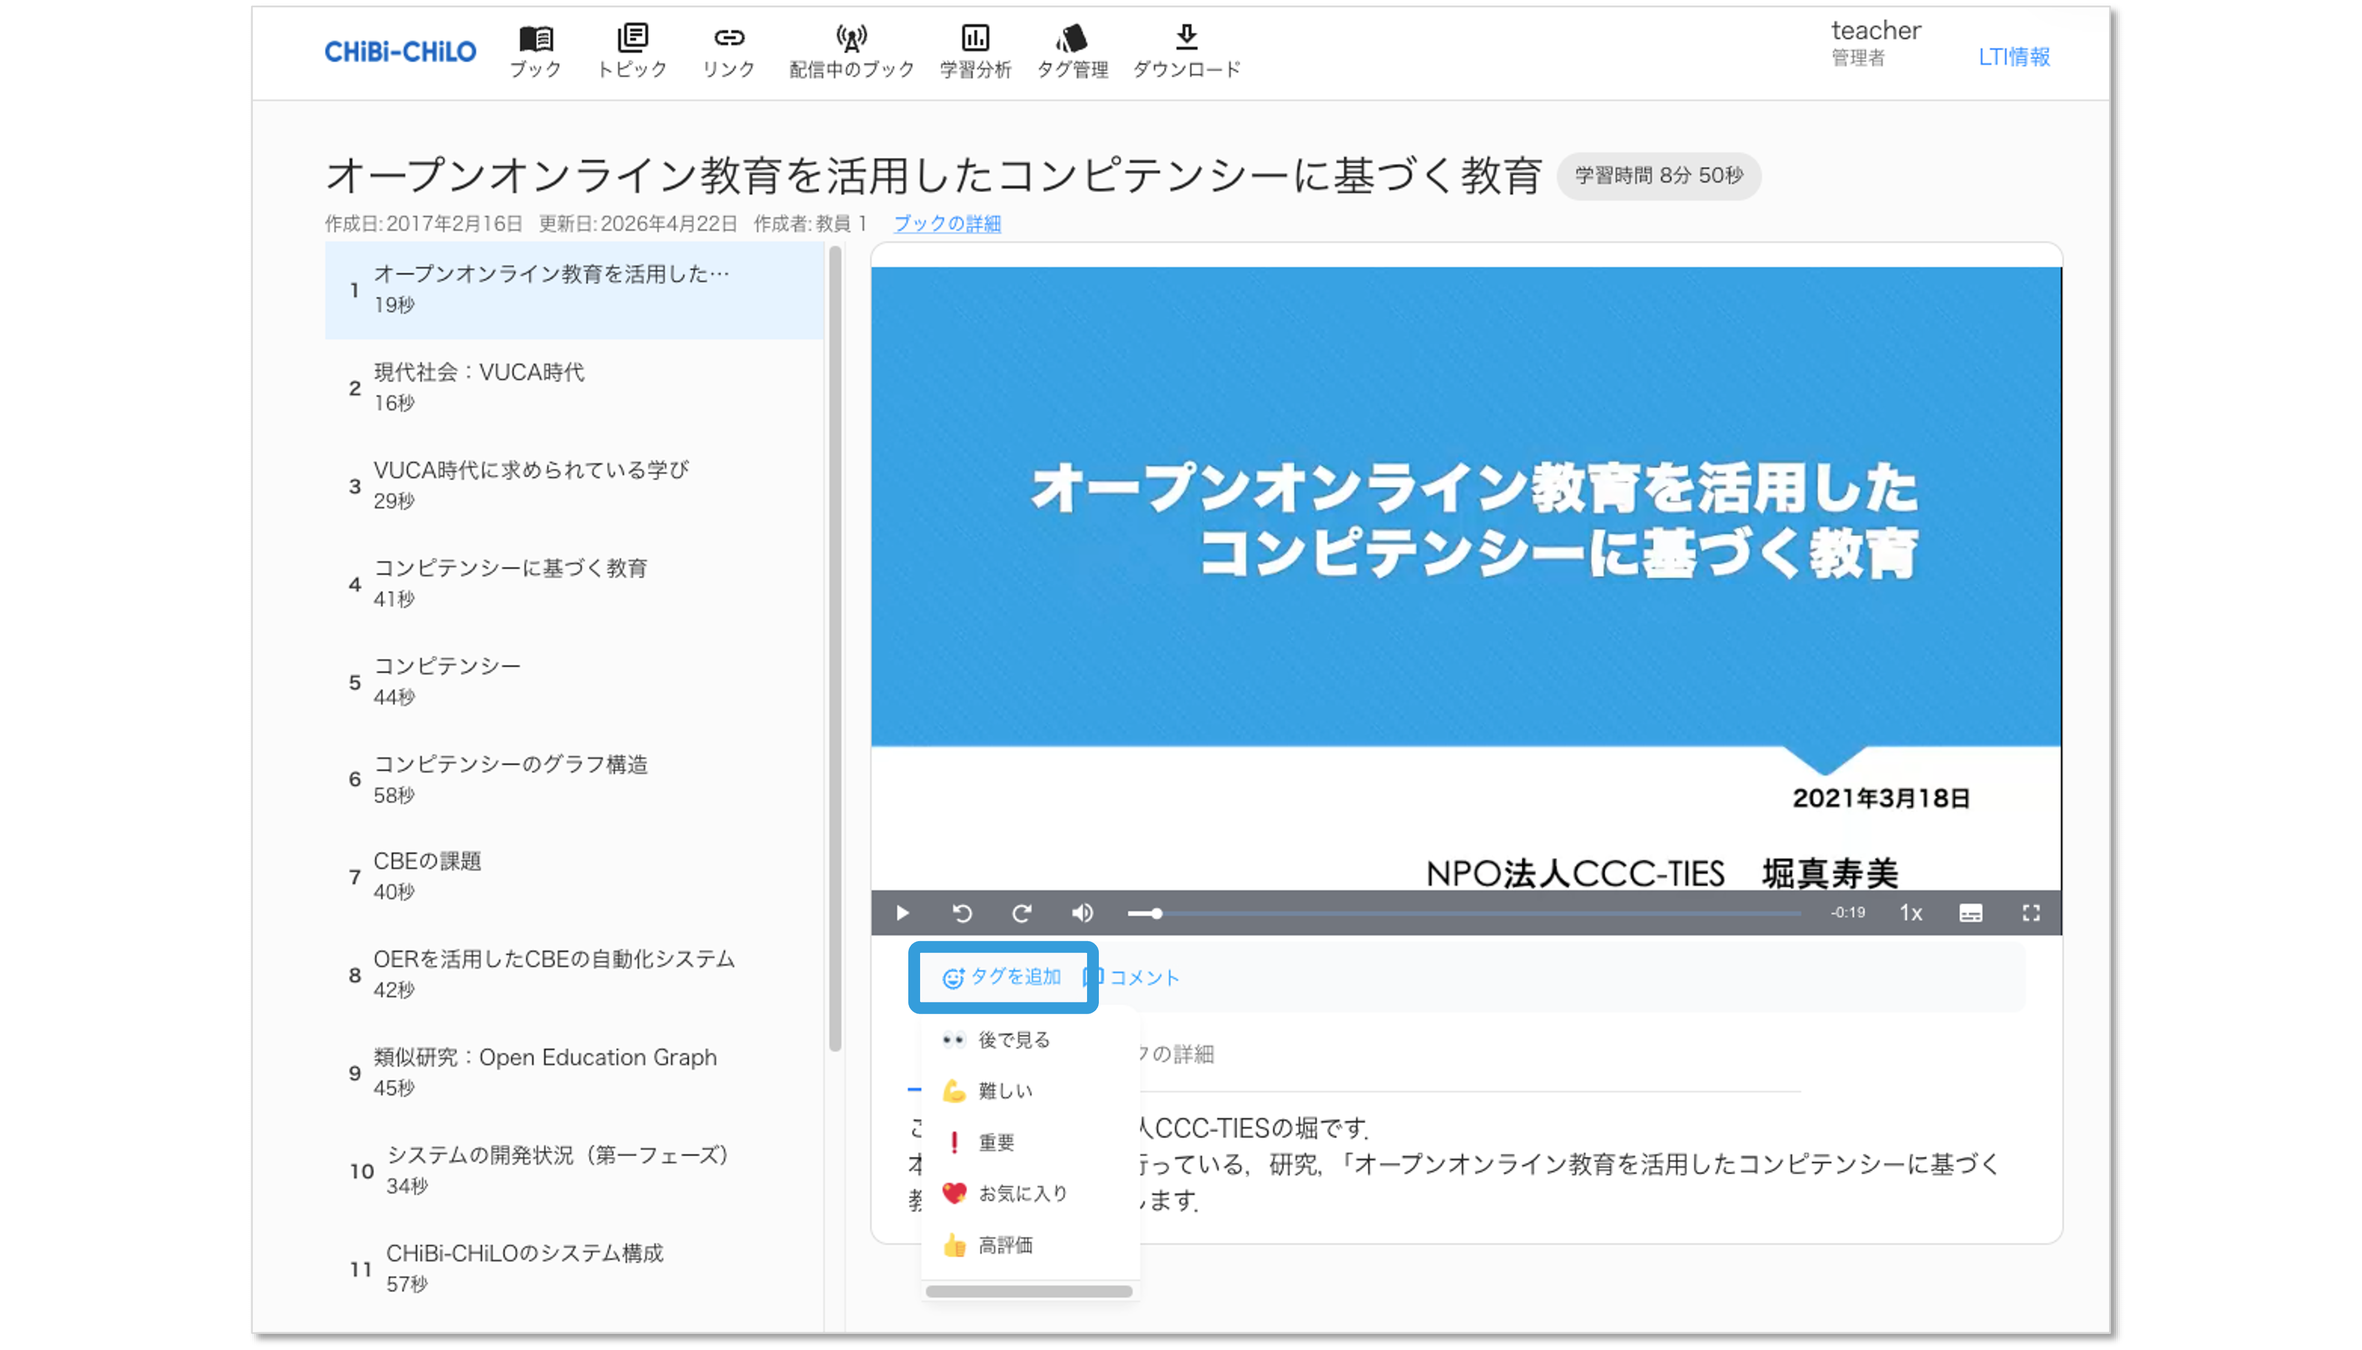
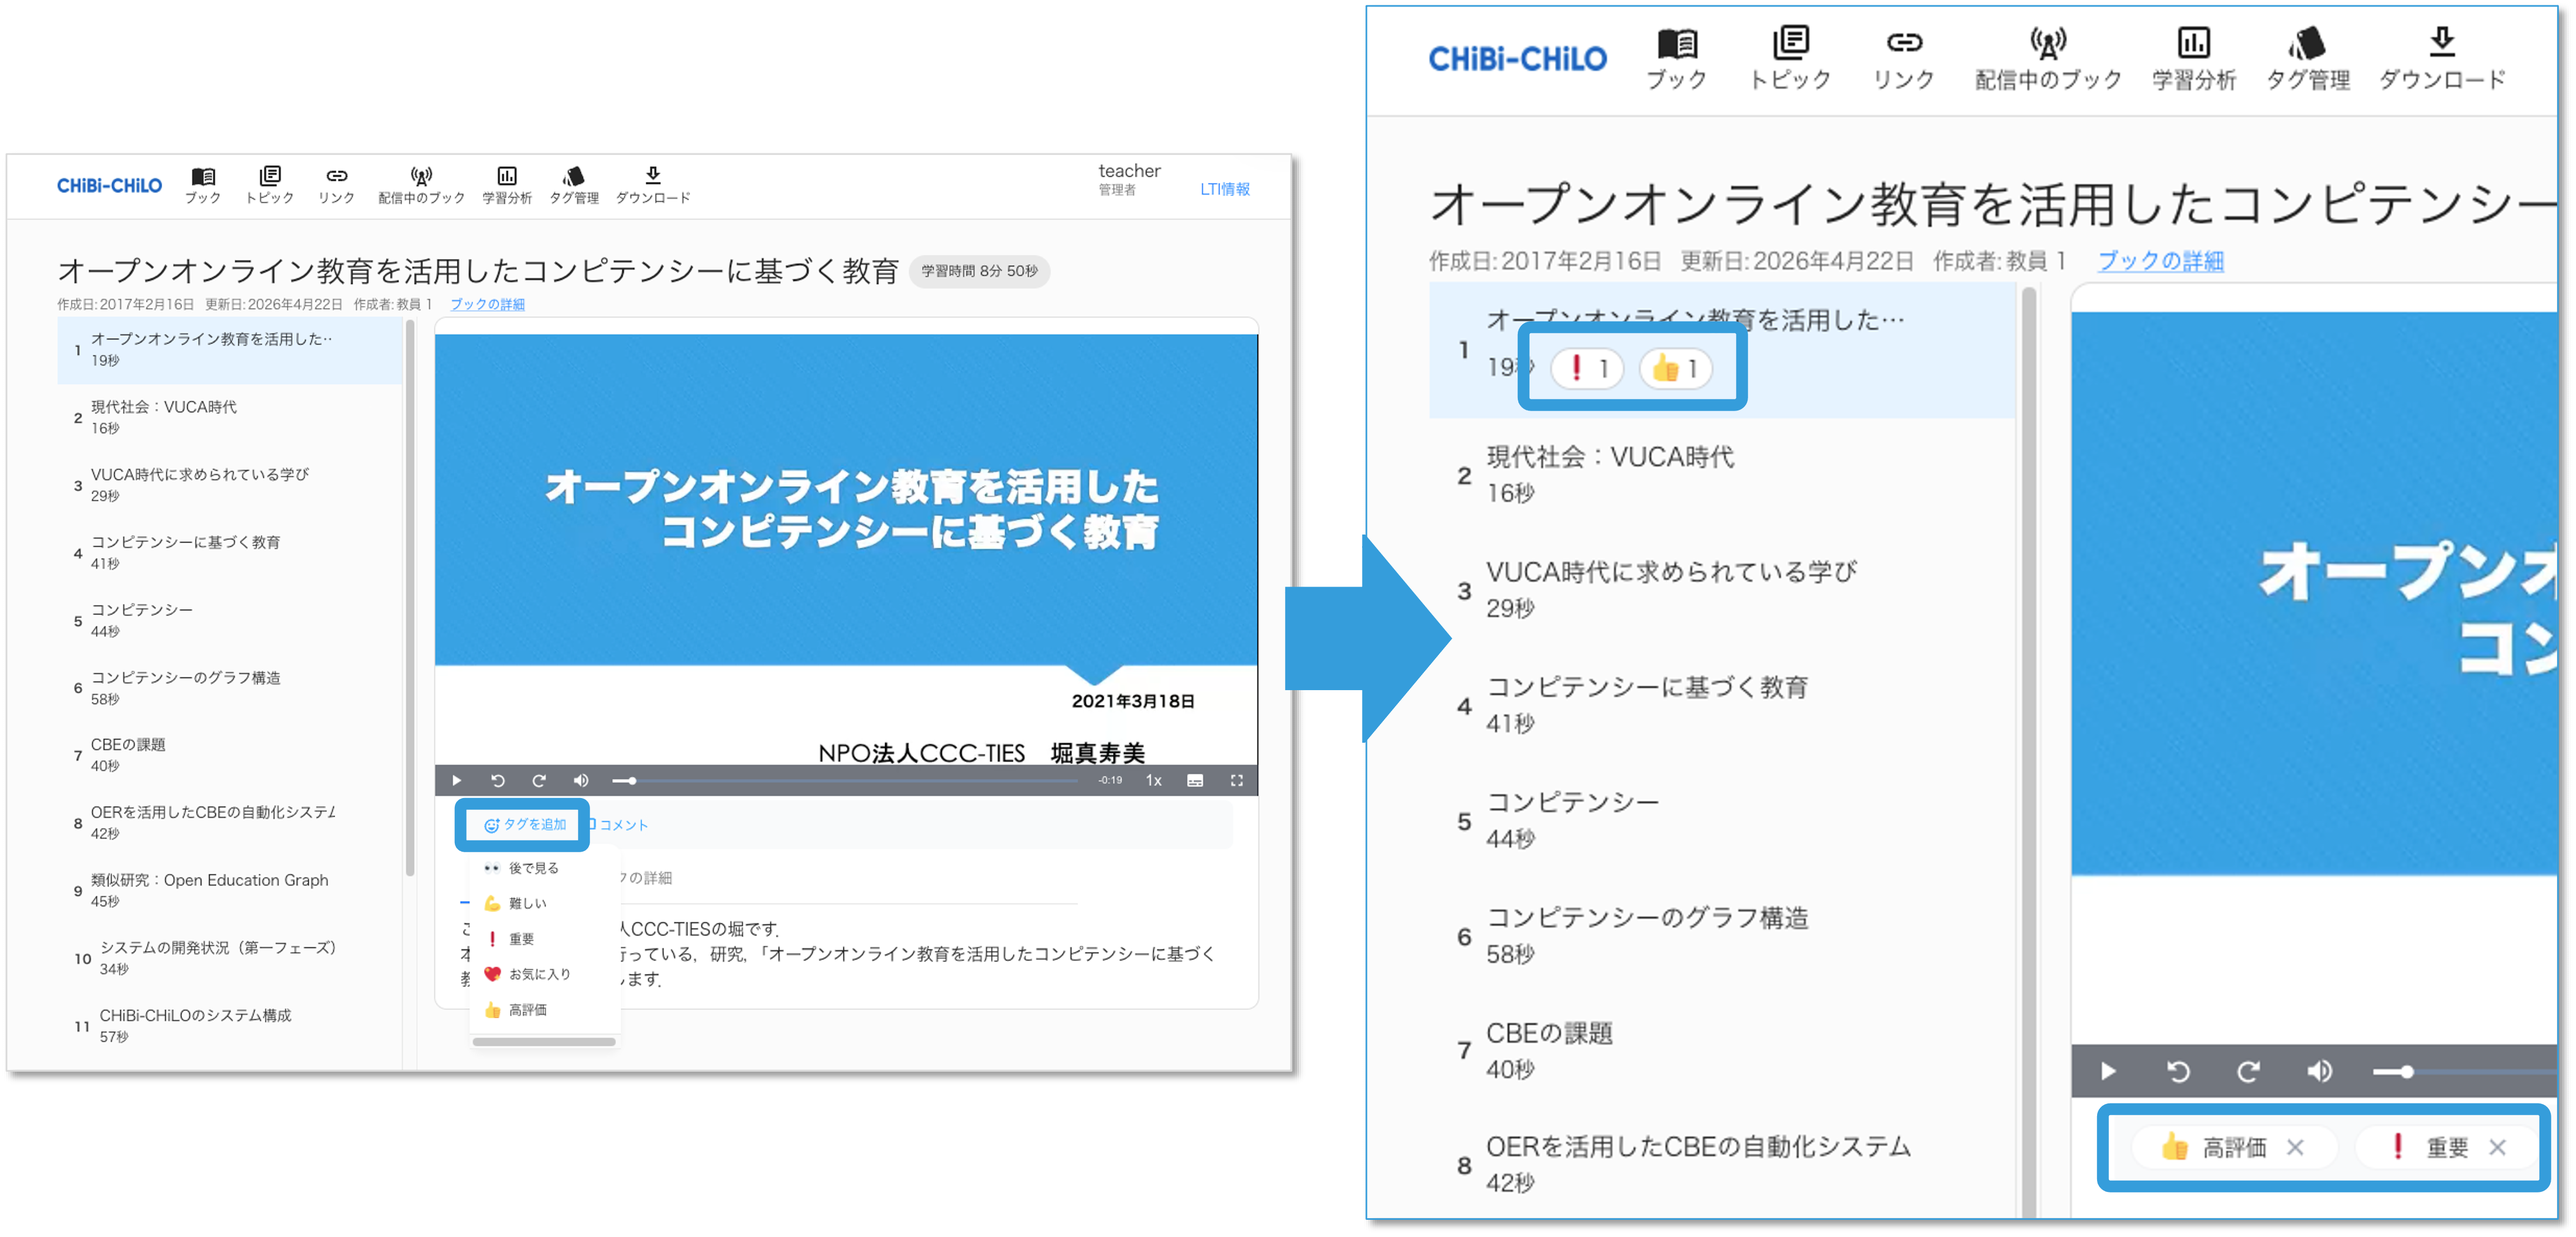
タグの更新

diff --git a/students/operation.md b/students/operation.md
@@ -28,6 +28,6 @@
 
 ## タグ
 
-プレイヤー下部の **「タグを追加」** からトピックごとにタグを設定出来ます．
+プレイヤー下部の **「タグを追加」** からトピックごとにタグを設定出来ます．追加した場所とトピックリストに追加したタグが表示されます．
 
 ![](../.gitbook/assets/operation_02.png)
